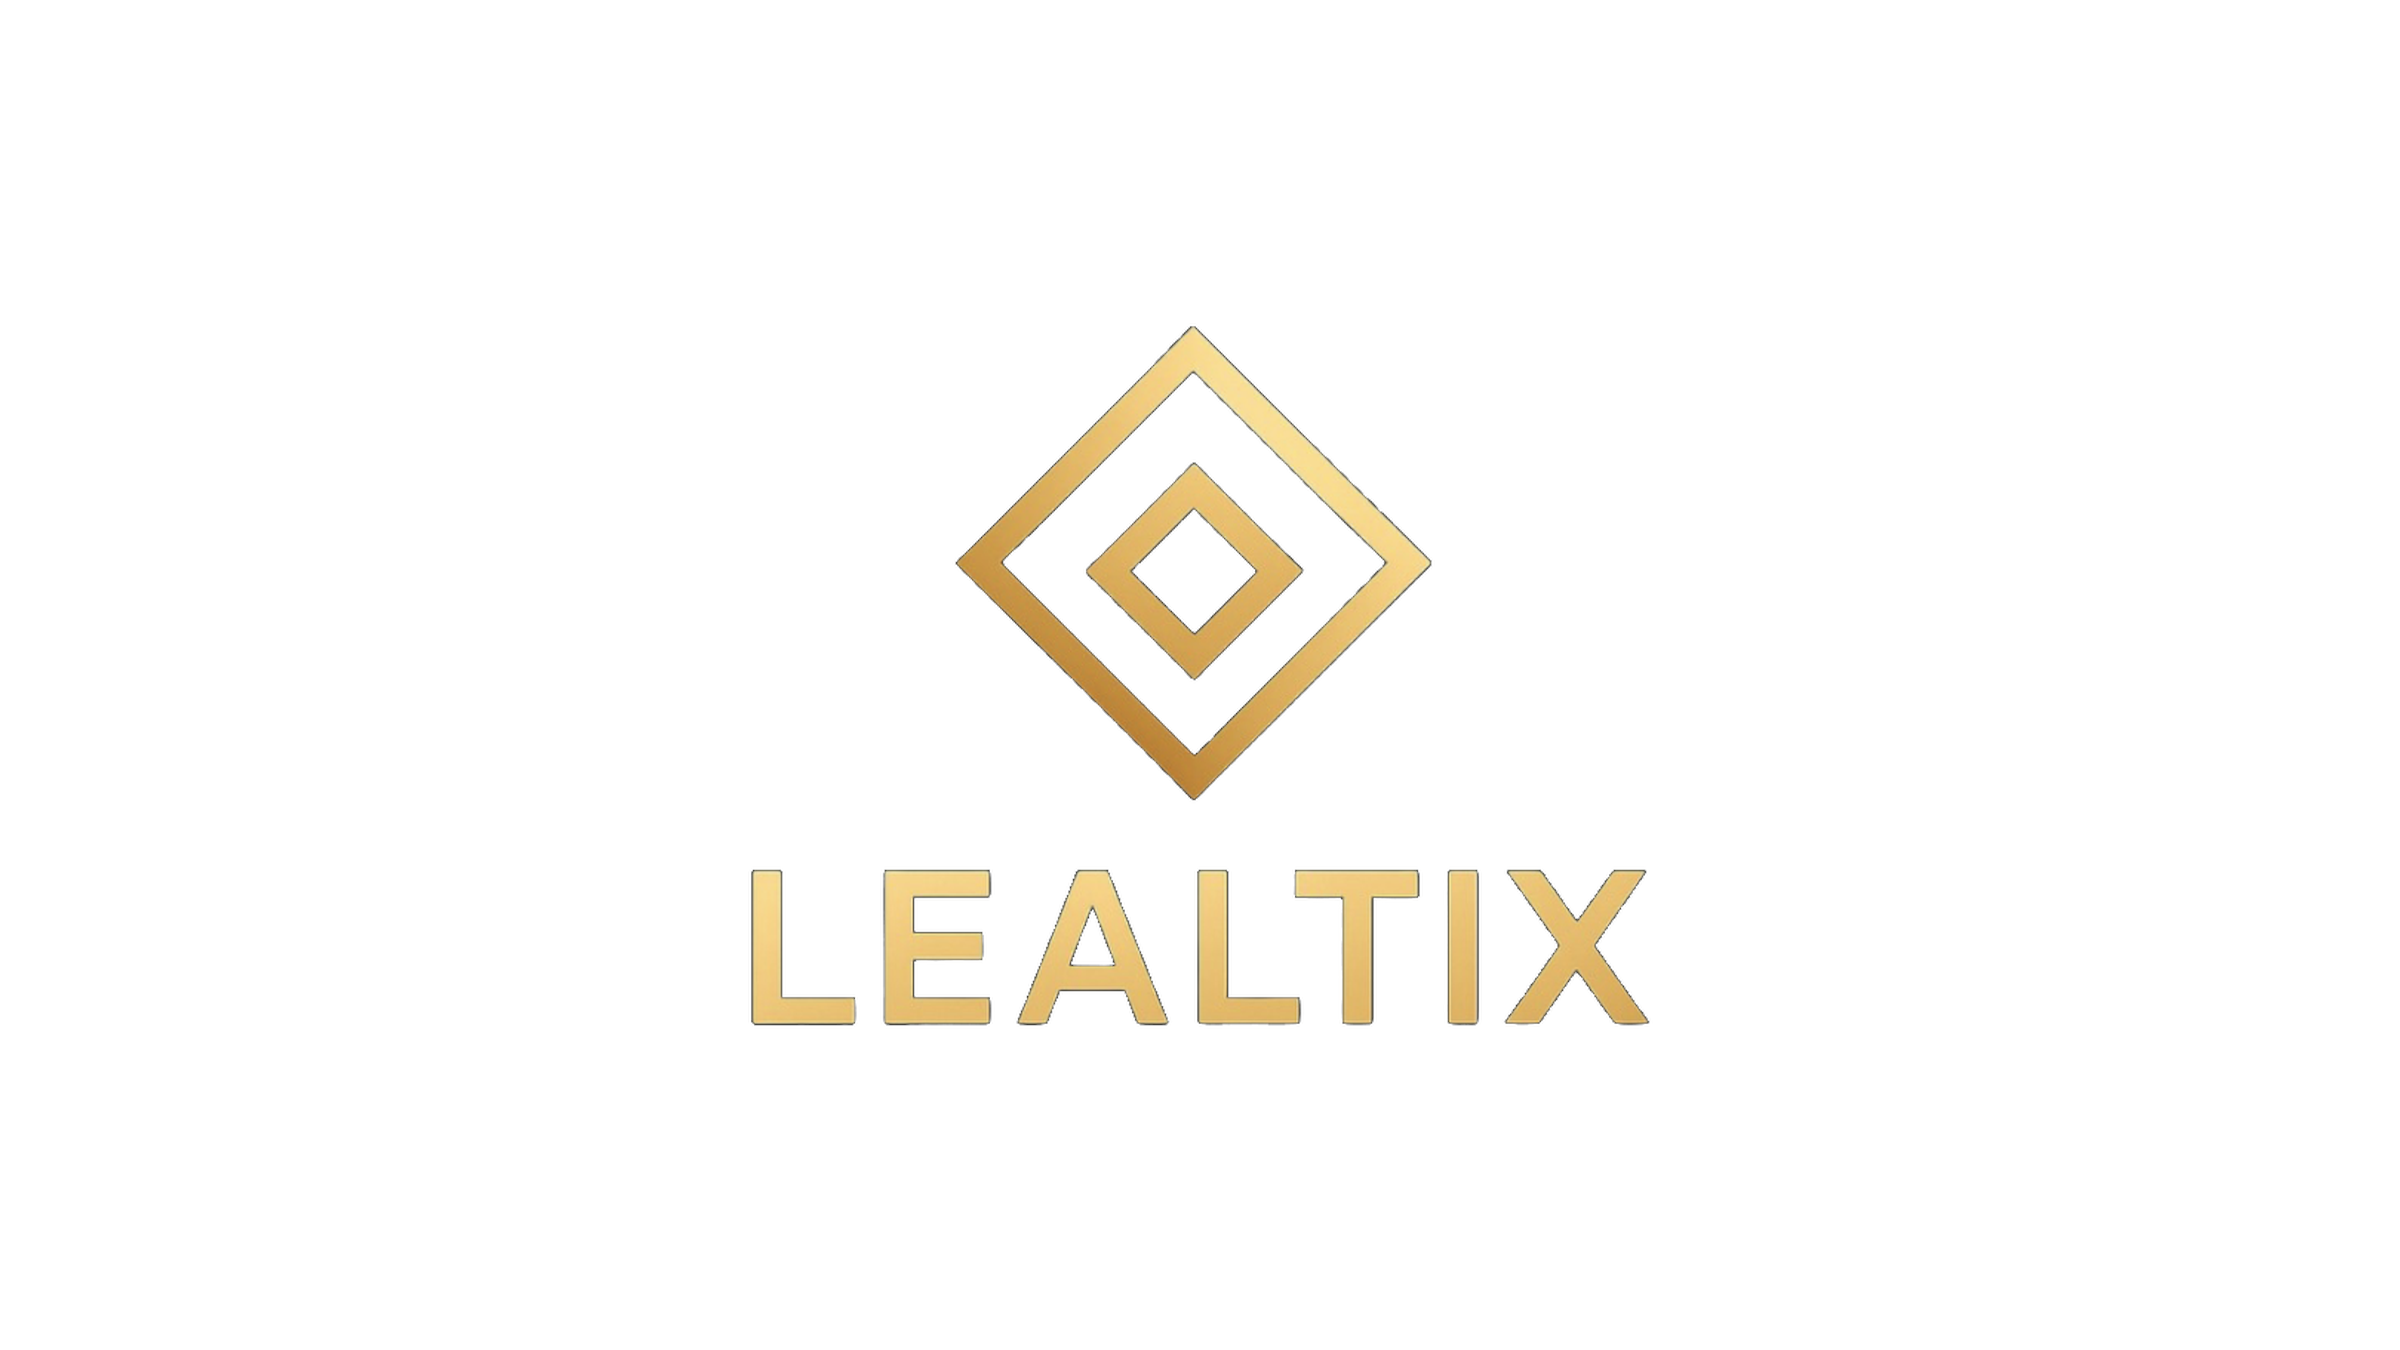
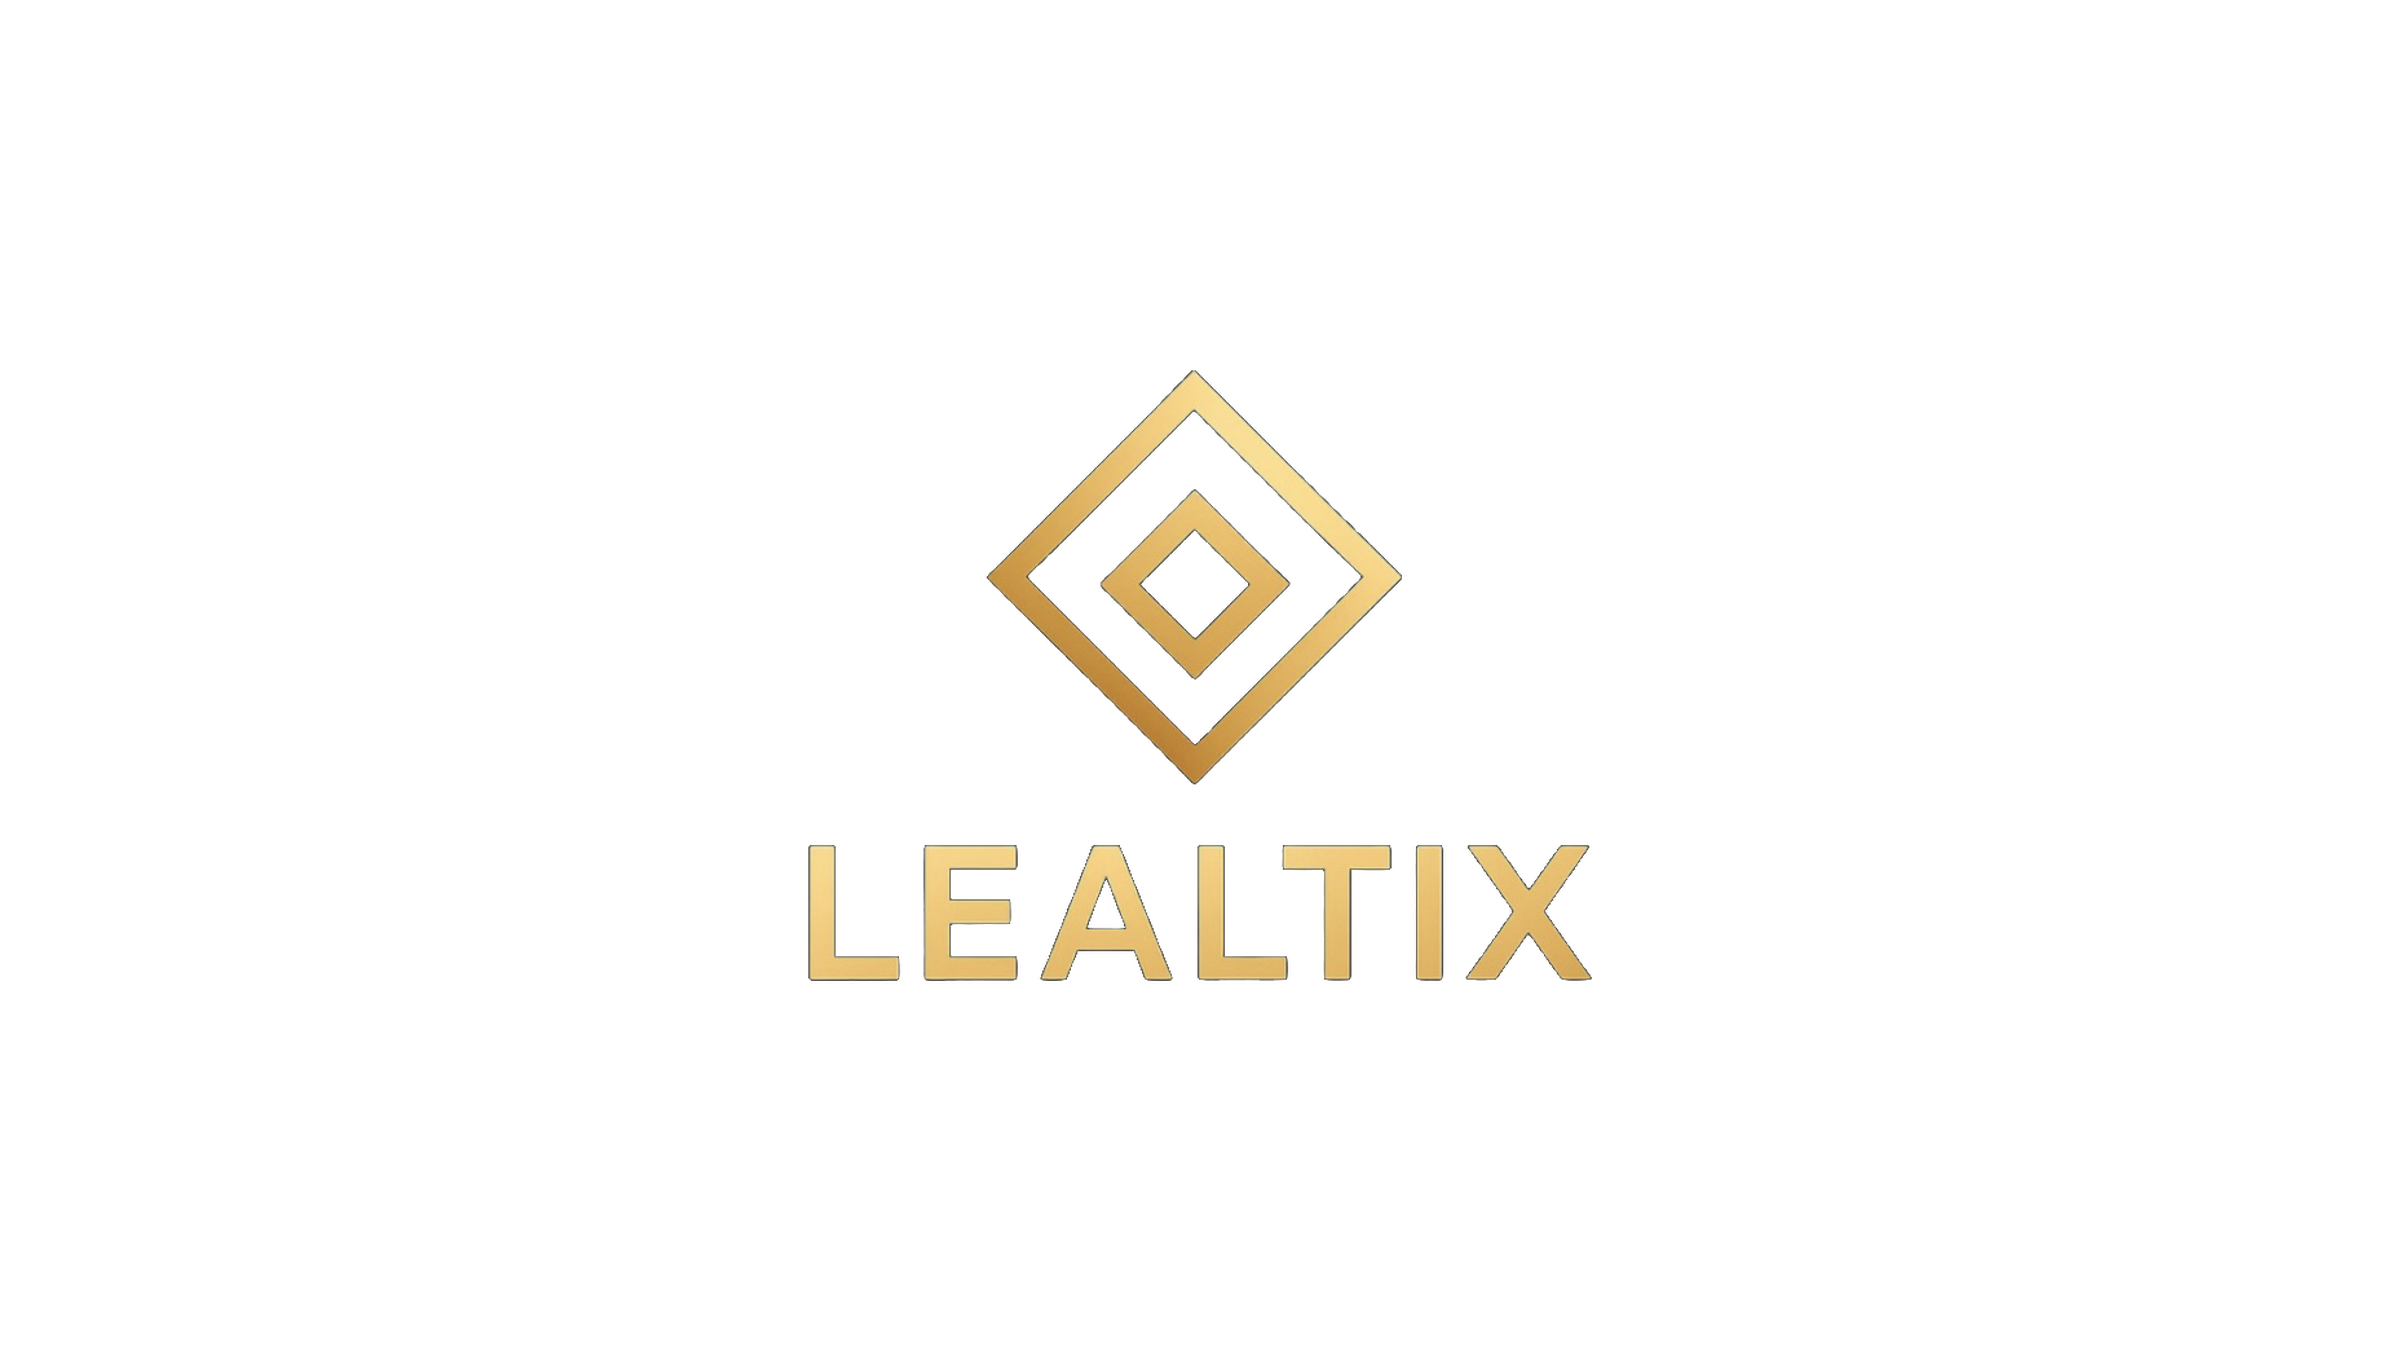
fix(hero): correct texture UV orientation (upright, non-mirrored, perfectly centered) and clean RGB white matte

Changed region(s): [[0.3125, 0.6222, 0.6875, 0.7778], [0.375, 0.2489, 0.5938, 0.5911]]

diff --git a/assets/js/ripple-distortion.js b/assets/js/ripple-distortion.js
@@ -183,7 +183,8 @@ class RippleDistortion {
         vec2 s = uResolution / safe;
         vec2 scaledSize = safe * max(s.x, s.y);
         vec2 offset = (uResolution - scaledSize) * 0.5;
-        return (uv * uResolution - offset) / scaledSize;
+        vec2 p = (uv * uResolution - offset) / scaledSize;
+        return vec2(p.x, 1.0 - p.y);
       }
 
       void main() {
